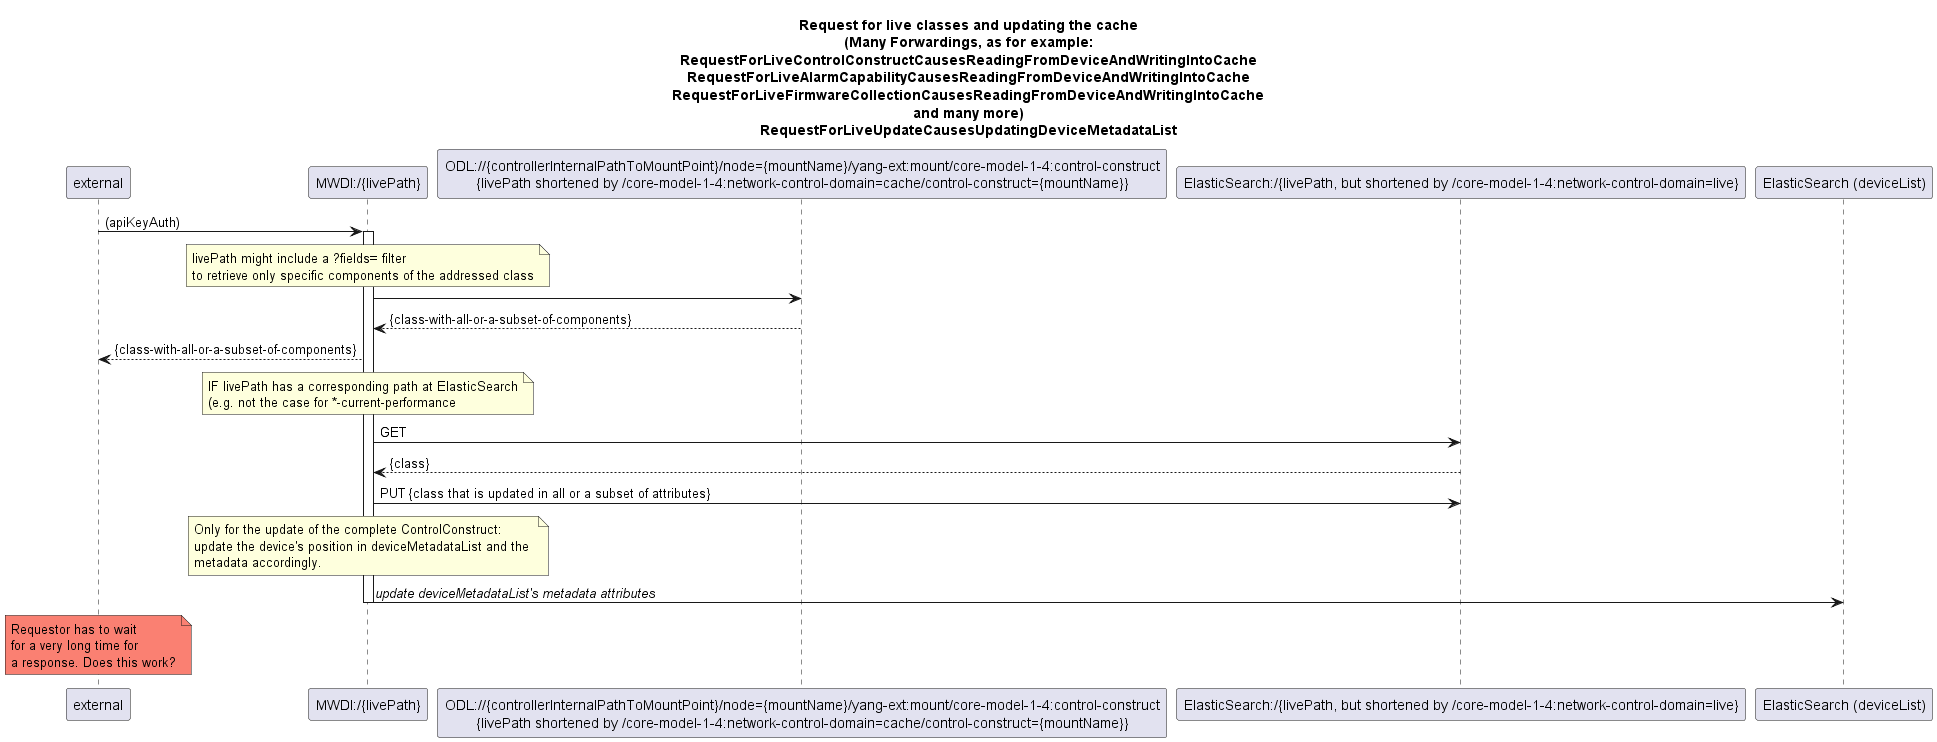
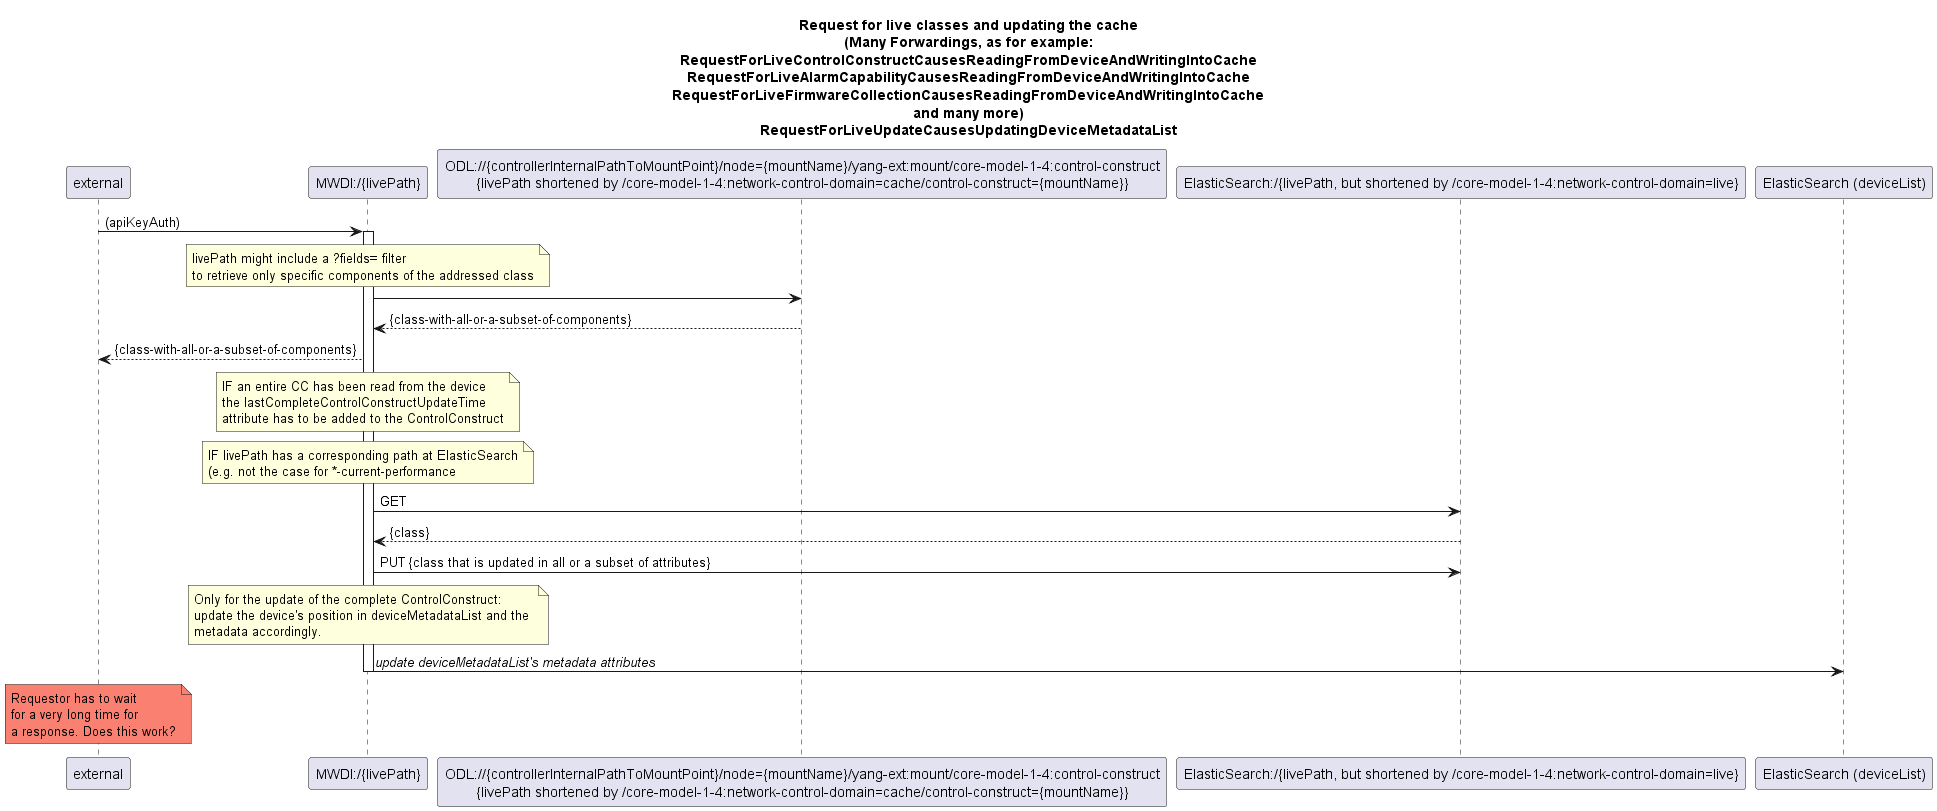
Add update time to CC backhaul/issue1554 (#1556)
* Add lastCompleteControlConstructUpdateTime attribute to CC
fixes #1554

Pull request: Add update time to CC backhaul/issue1554

Changed region(s): [[0.031, 0.031, 1.0, 0.8369], [0.1549, 0.9299, 1.0, 1.0], [0.0, 0.8059, 0.0929, 0.9919]]

diff --git a/spec/additionalDescription/CyclicControlConstructRetrievalProcess.md b/spec/additionalDescription/CyclicControlConstructRetrievalProcess.md
@@ -155,6 +155,14 @@ For improved stability the following changes have been introduced from 2.0.0 to 
 - devices are no longer moved to the end of the sliding window
 - retrieval priority is determined from *last-complete-control-construct-update-time-attempt*
 
+### Adding update time information to CC update with MWDI 2.1.0
+
+ControlConstructs retrieved from devices do not contain any information about when they have been updated.  
+Before MWDI 2.1.0, the timestamp for last complete ControlConstruct updates was only written to the deviceMetadataList (*last-successful-complete-control-construct-update-time*).
+For e.g. usage in DPMDP such information, however, is required to be present in the ControlConstruct itself.  
+Therefore, when the live service for updating the complete ControlConstruct is executed,
+MWDI shall write the timestamp of this update also into the ControlConstruct itself into attribute *lastCompleteControlConstructUpdateTime*.
+
 ### DeviceMetadataList metadata
 The metadata table introduced in 1.2.x is replaced by the deviceMetadataList metadata attributes. I.e. the deviceMetadataList no longer consists only of the devices, but also stores the additional metadata attributes.  
 
@@ -198,4 +206,5 @@ Polling notifications from Kafka can be switched on/off via profileInstance *kaf
 Certain parts of the ControlConstruct can be updated upon “user” demand. I.e. if another application calls a *live* path for e.g. the air interface capabilities, they are retrieved from the device and then the air interface capabilities inside the cached ControlConstruct are updated with the newly retrieved information. The other parts of the ControlConstruct are not updated by this.
 
 **User-initiated updates the complete ControlConstruct**  
+
 Also the complete ControlConstruct can be updated upon “user” demand. If the related *live* path is called, the device gets locked for both the slidingWindow and qualityMeasurement process. If the device is already being processed by either of the two and the *live* path gets called in addition, it will be executed parallely in addition. The metadata attributes will be updated by both retrievals upon their completion.  